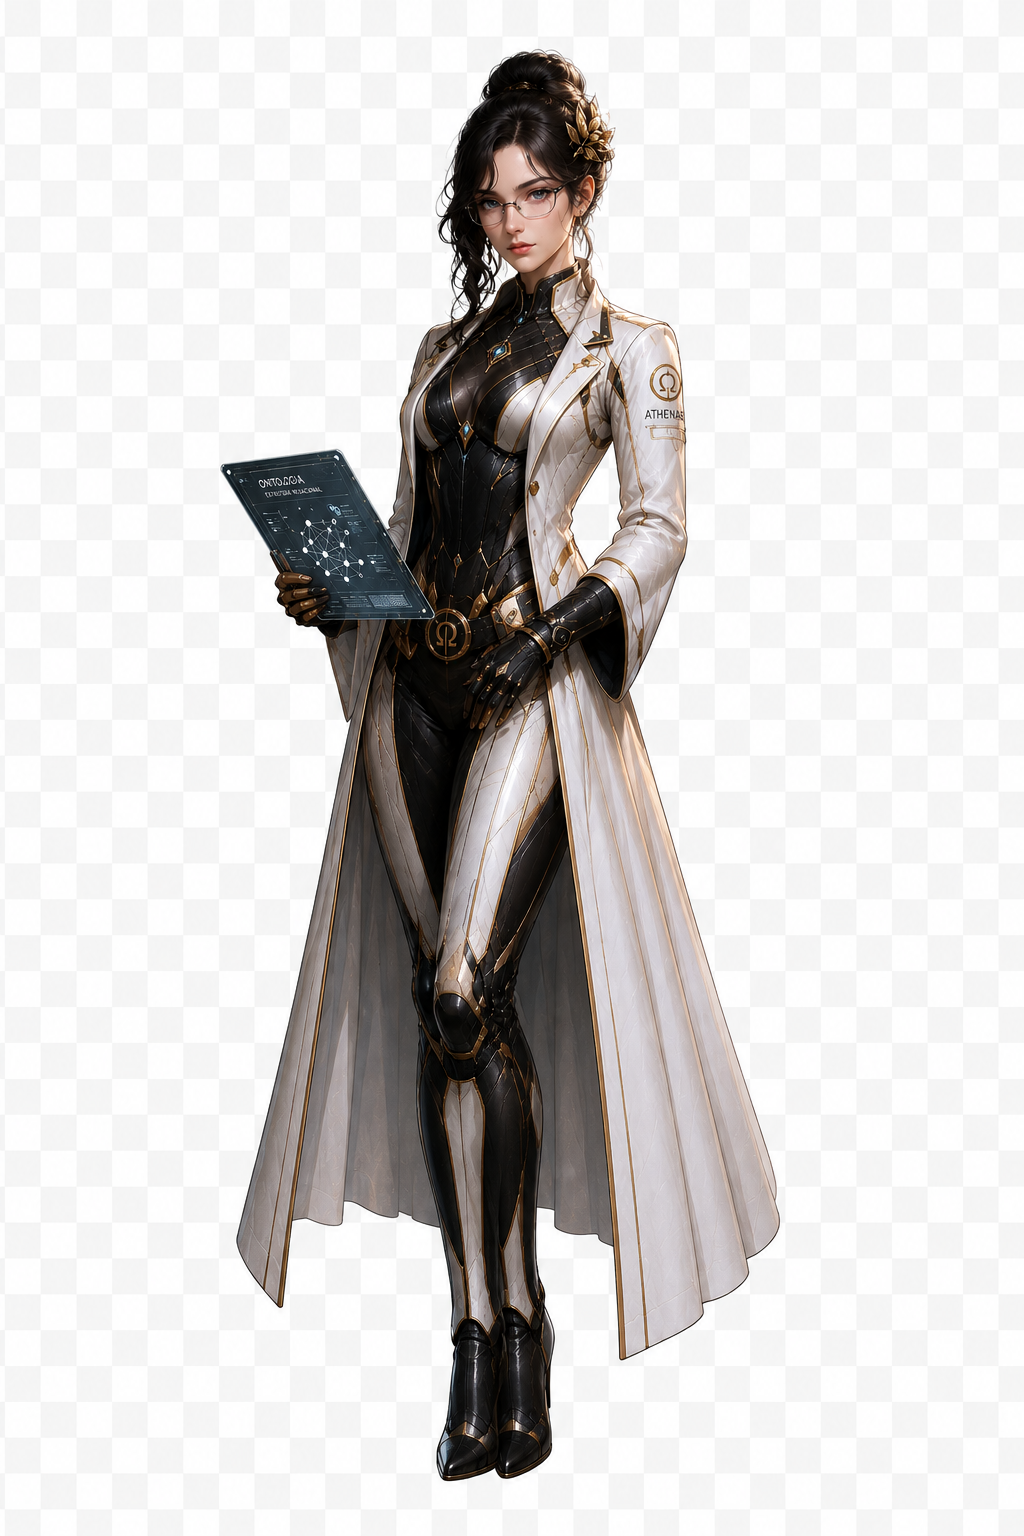
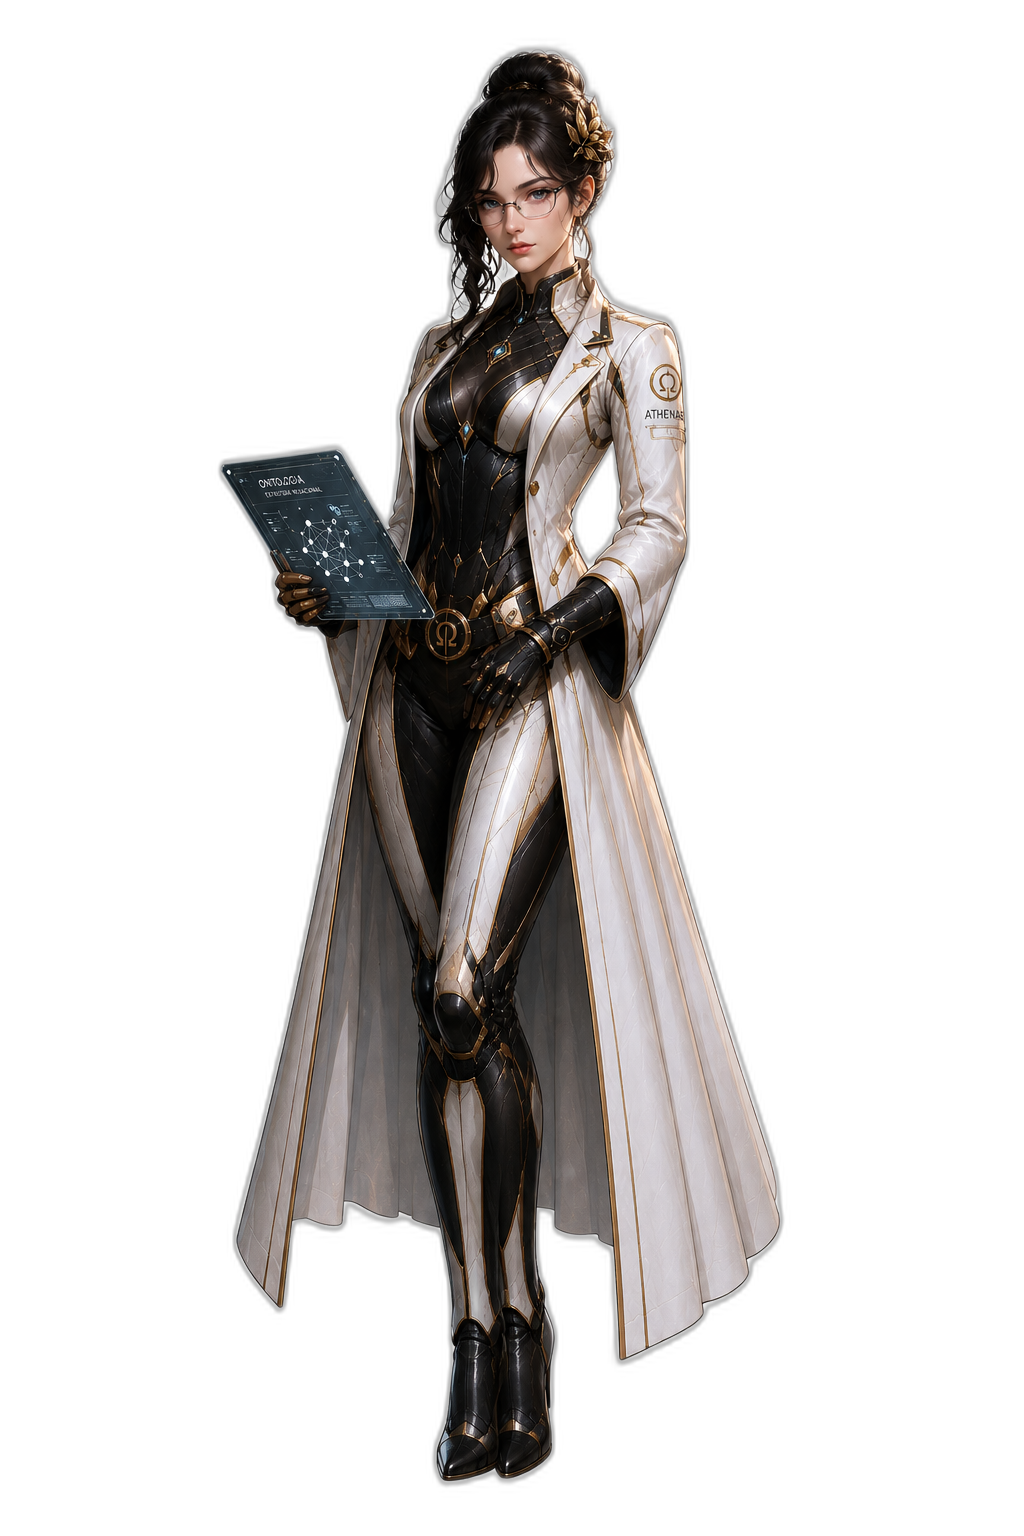
feat(site): fundo removido das 3 fotos opacas da galeria (rembg/u2net)
- nicky, athenae e nyx agora são RGBA com transparência real (77/72/58%),
  processadas em sandbox e visadas visualmente (sem halo, detalhes intactos);
  originais RGB ficam no histórico do git.
- venv: rembg[cpu] instalado (onnxruntime 1.31.0); numpy/scipy devolvidos
  aos pins do aider-chat (1.26.4 / 1.14.1).
- provas: 200 image/png ao vivo + suíte completa 2489/16 pós-mudança de venv.

diff --git a/iniciar/2026-10-12_conversa_omegadrakon.md b/iniciar/2026-10-12_conversa_omegadrakon.md
@@ -476,3 +476,13 @@ realmente png porque algumas não estão com fundo transparente" →
 gerado opaco) e 5 são RGBA com transparência real (luma, regulus, vox,
 luma-3, nexus — 68–83% de pixels transparentes). ZIM do Wikipédia: 91%
 (13,14/14,39 GB), faltando ~1,25 GB (~15 min); kiwix sobe sozinho.
+
+### Fundo removido das três opacas (~00:1x–00:2x)
+
+Dono autorizou. `rembg` + modelo **u2net** (IA) no `.venv` — o pip subiu
+numpy/scipy e quebrou os pins do aider-chat, devolvidos na hora
+(numpy 1.26.4 / scipy 1.14.1). Sandboxed em `/tmp` e **resultado visado
+imagem a imagem**: Nicky, Athenae e Nyx publicados em RGBA (77/72/58 %
+transparentes, sem halo, cabelos/casaco/capuz intactos) — originais RGB
+preservados no histórico do git. Prova viva: 200 `image/png` no site.
+Suíte completa após a troca de venv: **2489 passed / 16 skipped**.
